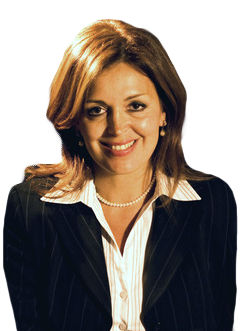
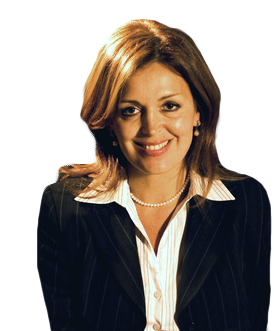
Adjusting bock quote for mobile

diff --git a/index.html b/index.html
@@ -48,17 +48,29 @@
         </div>
       </div>
     </div>
+    
+    <!--Mobile call and photo section-->
+    
+    <div class="container-fluid">
+      <div class="container">
+        <div class="row">
+          <div class="col-xs-12 hidden-sm hidden-md hidden-lg hidden-xl">
+            <p class="call">Call for a Free Consultation</p>
+            <p class="number">(877) 706-7607</p>
+          </div>
+          <div class="col-xs-12 col-sm-3 elena-section">
+            <img class="elena" src="assets/elena_cutout_telepost_steers_050115_v2.png" alt="Elena Headshot"/>
+          </div>
+        </div>
+      </div>
+    </div>
         
     <!--Gray Section-->
     
     <div class="container-fluid gray-section">
       <div class="container">
         <div class="row">
-          <div class="col-xs-12 hidden-sm hidden-md hidden-lg hidden-xl header-call">
-            <p class="call">Call for a Free Consultation</p>
-            <p class="number">(877) 706-7607</p>
-          </div>
-          <div class="col-xs-12 col-sm-3 elena-section">
+          <div class="hidden-xs col-sm-3 elena-section">
             <img class="elena" src="assets/elena_cutout_telepost_steers_050115_v2.png" alt="Elena Headshot"/>
           </div>
           <div class="col-xs-12 col-sm-8 gray-text">

diff --git a/css/styles.css b/css/styles.css
@@ -78,6 +78,19 @@ h6{
     padding-top:30px;
 }
 
+@media(max-width:767px) {
+    h1{
+        font-size:40px;
+    }
+    h2{
+        font-size: 25px;
+    }
+    h3{
+        font-size: 22px;
+        line-height:26px;
+    }
+}
+
 /*Header*/
 
 .header-logo{
@@ -114,6 +127,8 @@ h6{
     .call{
         font-weight:600;
         font-size: 20px;
+        text-align:center;
+        padding-top:20px;
     }
 
     .number{
@@ -122,6 +137,7 @@ h6{
         color: #e01d3d;
         line-height: 7px;
         padding-bottom:10px;
+        text-align:center;
     }
 }
 
@@ -152,10 +168,11 @@ h6{
 @media(max-width:767px) {
     .gray-text{
         padding-top:10px;
+        padding-bottom:20px;
         
     }
     
-    .elena-section{
+    /*.elena-section{
         margin-bottom:240px;
     }
     
@@ -164,13 +181,20 @@ h6{
         width:175px;
         left: 100px;
         vertical-align: bottom;
-    }
+    }*/
 }
 
 /*Three Sections*/
 
 .three-sections{
     margin-top:40px;
+}
+
+@media(max-width:767px) {
+    .three-sections{
+        margin-top: 20px;
+        margin-bottom: -20px;
+    }
 }
 
 /*Quote*/
